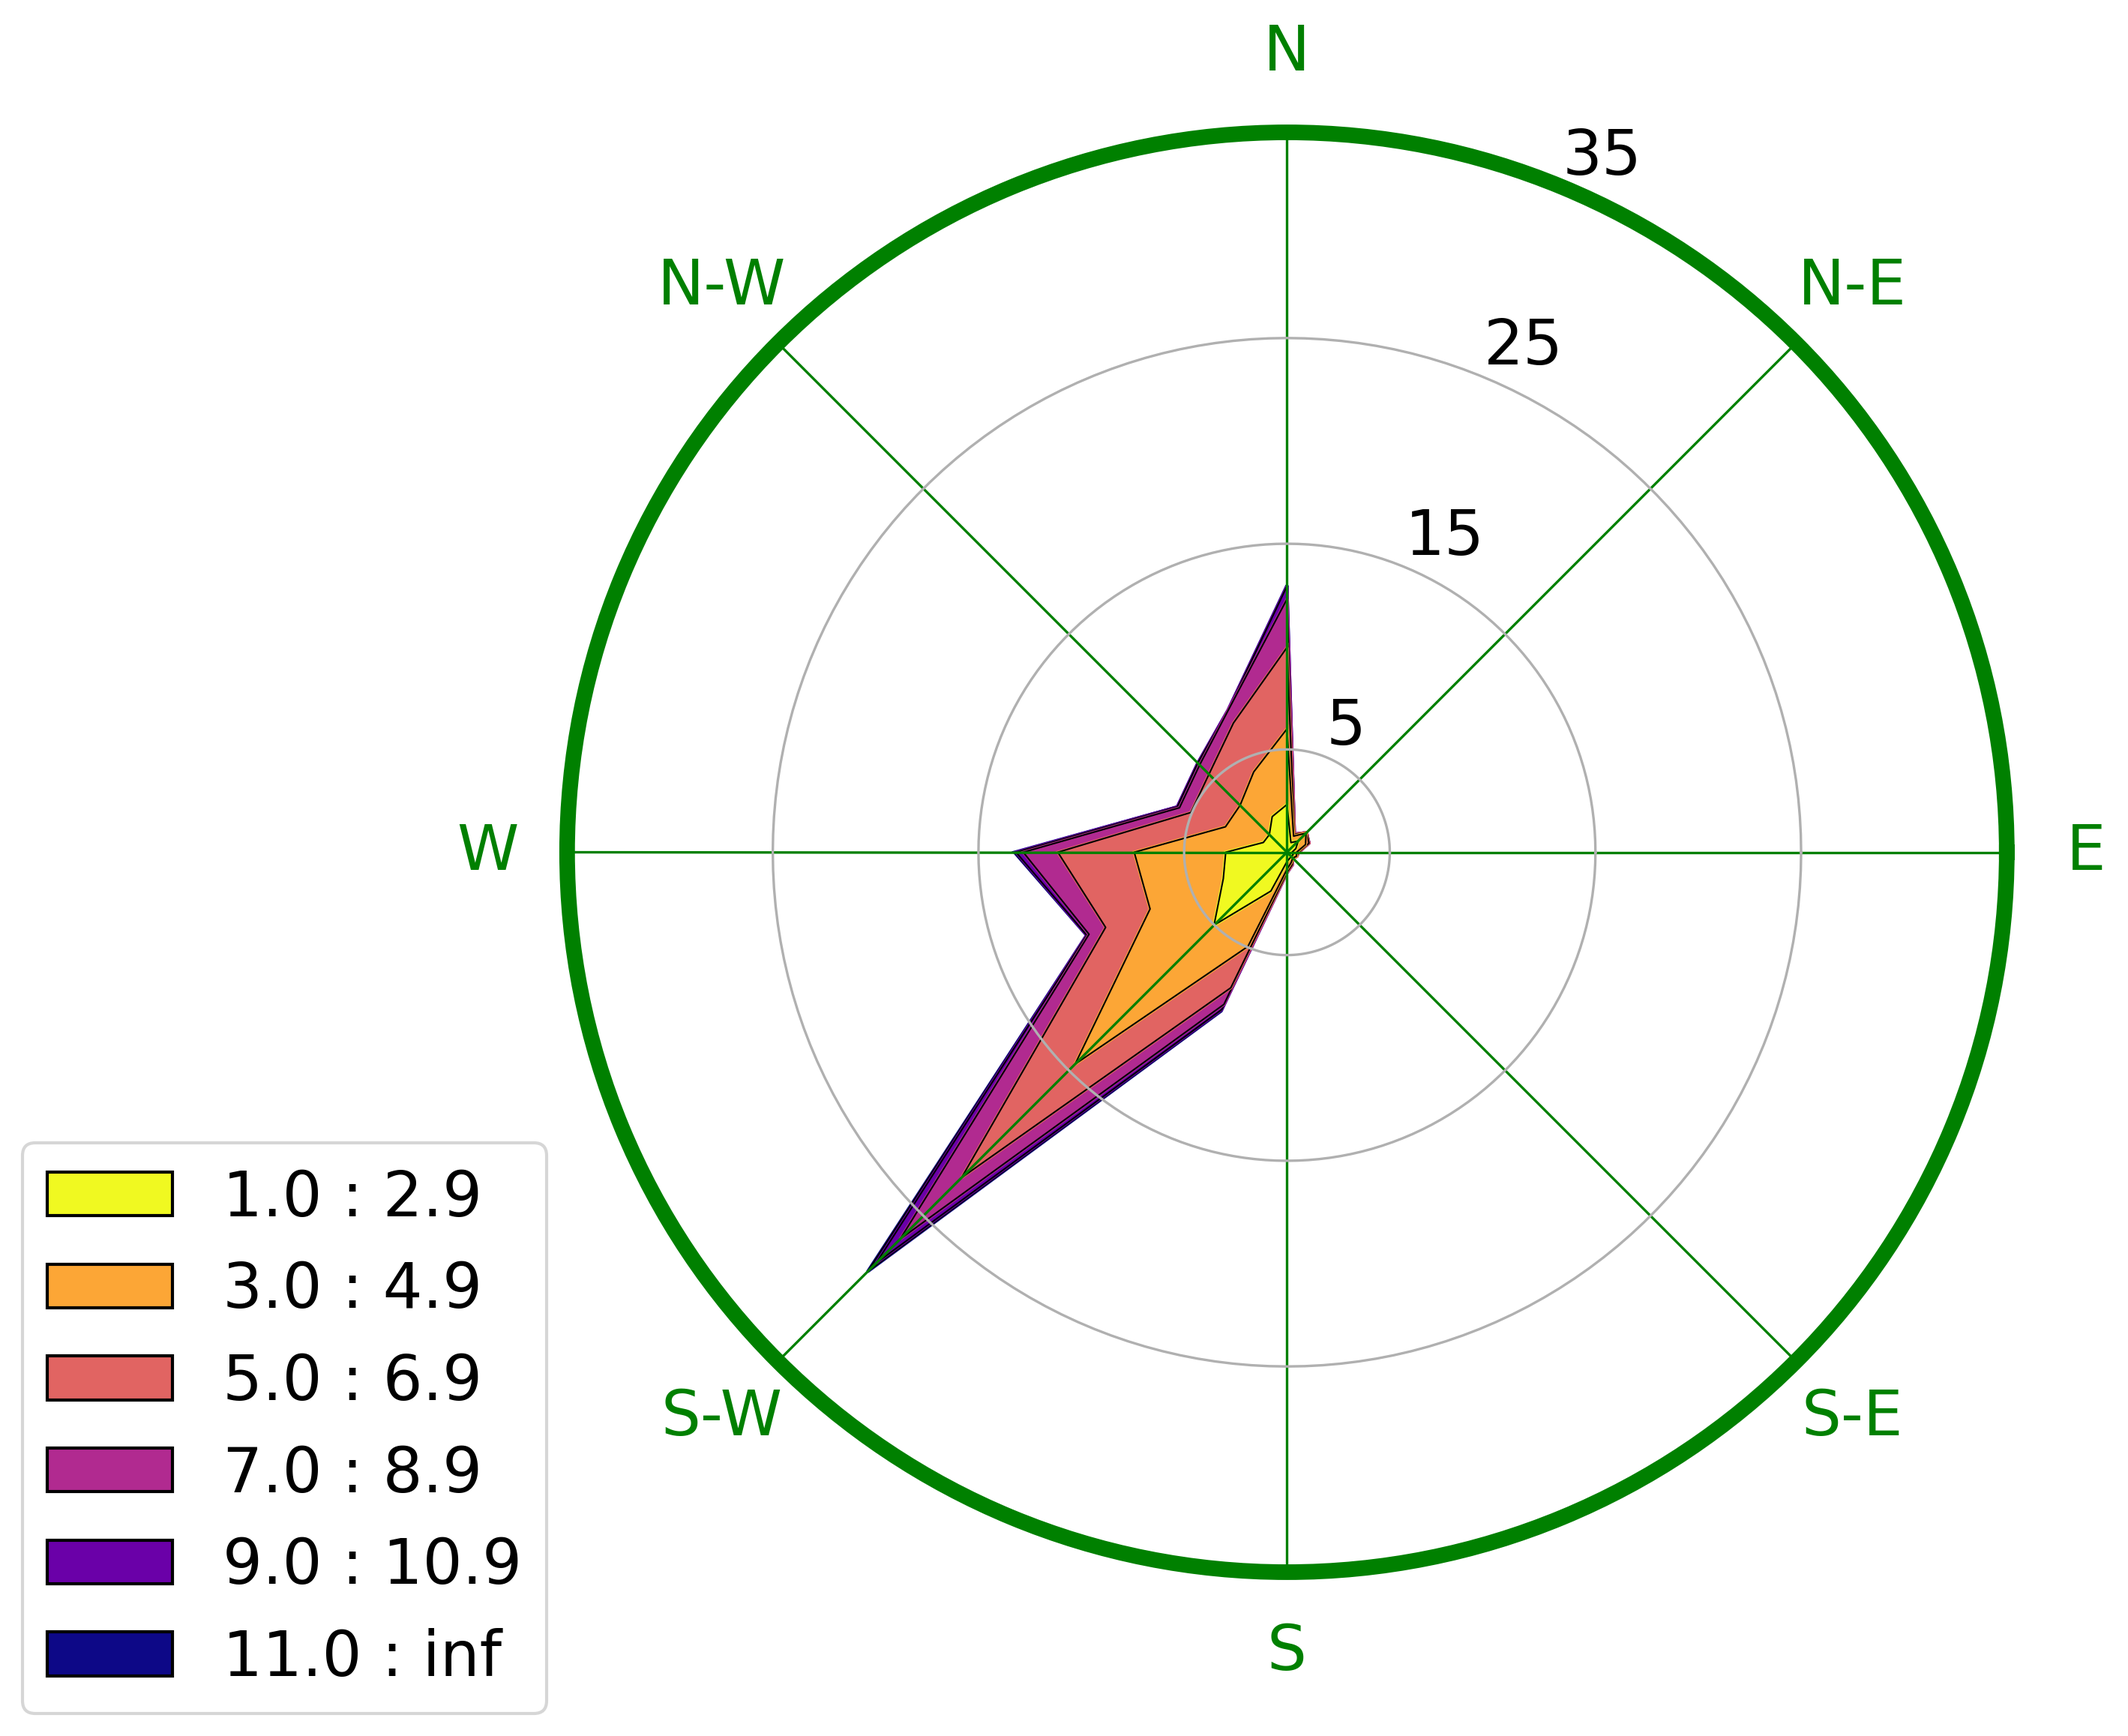
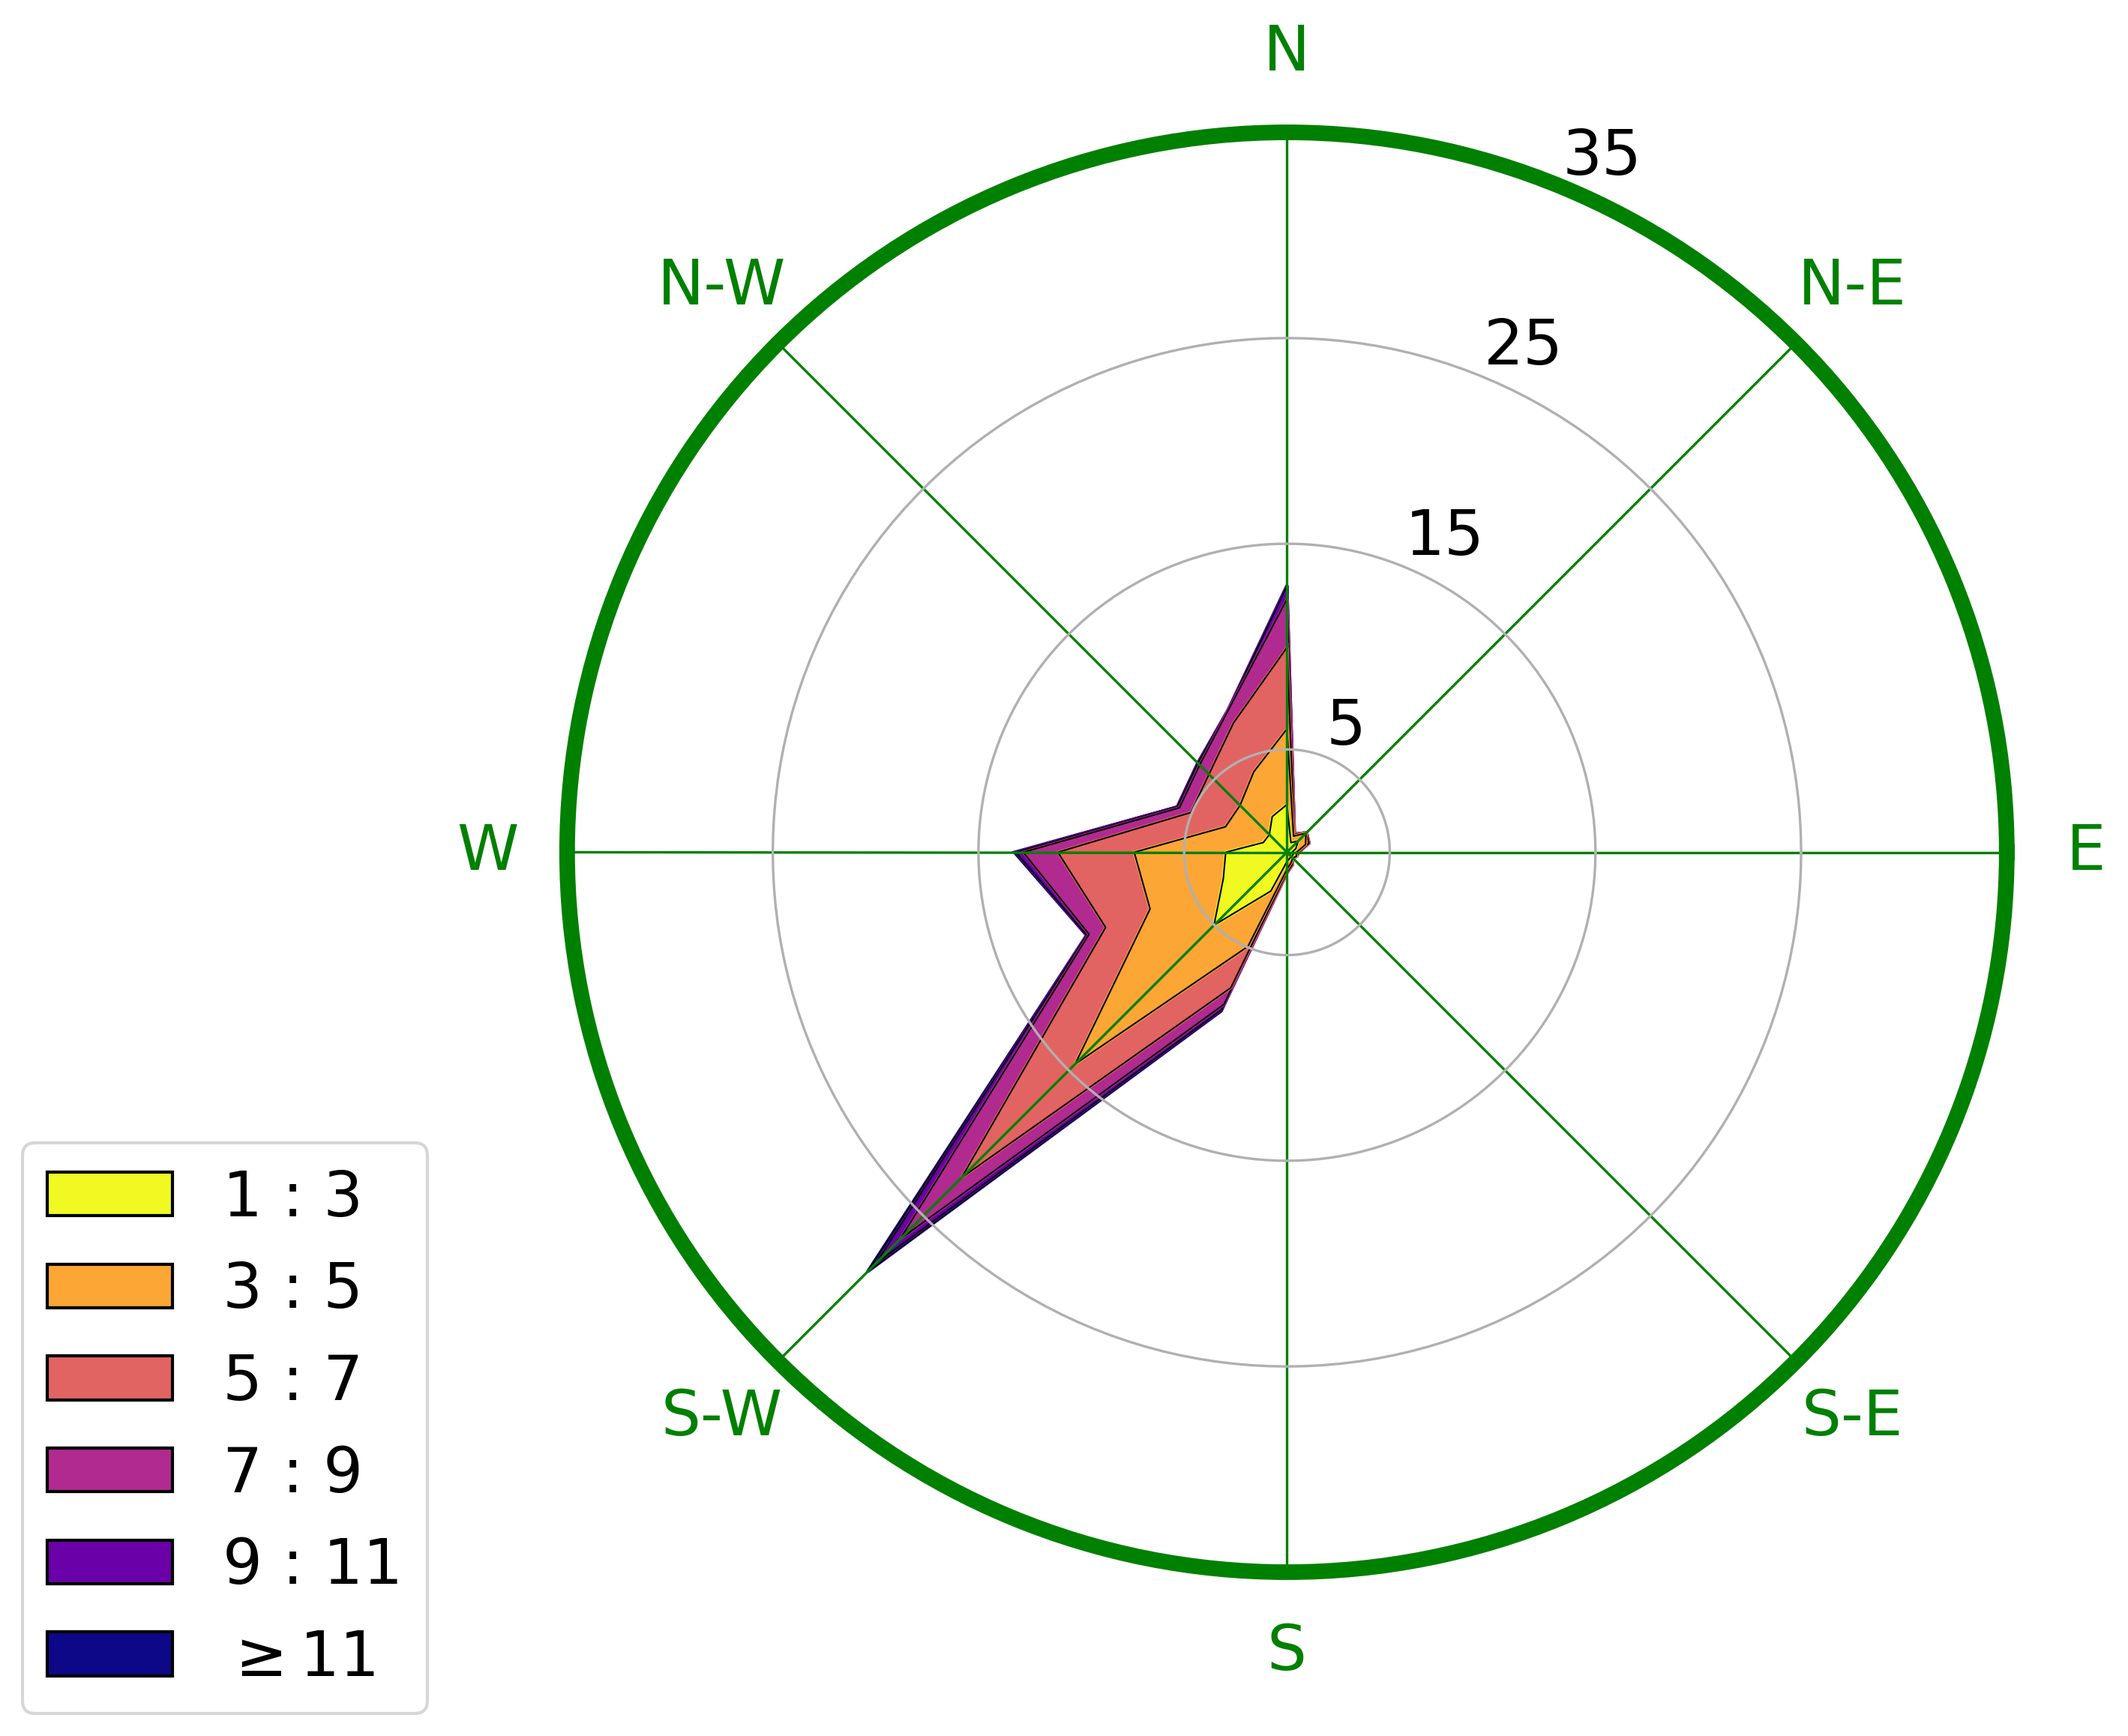
fix legend of windrose

Changed region(s): [[0.093, 0.6531, 0.2481, 0.9641]]

diff --git a/scint_plots/P2_map/wind_rose/wind_rose.py b/scint_plots/P2_map/wind_rose/wind_rose.py
@@ -75,7 +75,26 @@ def plot_windrose(df,
     # legend if it's windrose appearing first in the plot
     if path_name == 'IMU_BTT':
 
-        ax.legend(loc='center left', bbox_to_anchor=(-0.4, 0.1))
+        # need to manually change windrose legend a complicated way because the module doesn't allow
+        # you to set custom labels
+        new_labels = []
+        for i in range(0, len(bins_range)):
+
+            current_num = bins_range[i]
+
+            # last label
+            if i == len(bins_range) - 1:
+                label = '$\geq$' + str(current_num)
+
+            else:
+                next_num = bins_range[i + 1]
+                label = str(current_num) + ' : ' + str(next_num)
+
+            new_labels.append(label)
+
+        L = ax.legend(loc='center left', bbox_to_anchor=(-0.4, 0.1))
+        for i in range(0, len(new_labels)):
+            L.get_texts()[i].set_text(new_labels[i])
 
         ax.set_yticks(np.arange(5, 45, step=10))
         ax.set_yticklabels(np.arange(5, 45, step=10))
